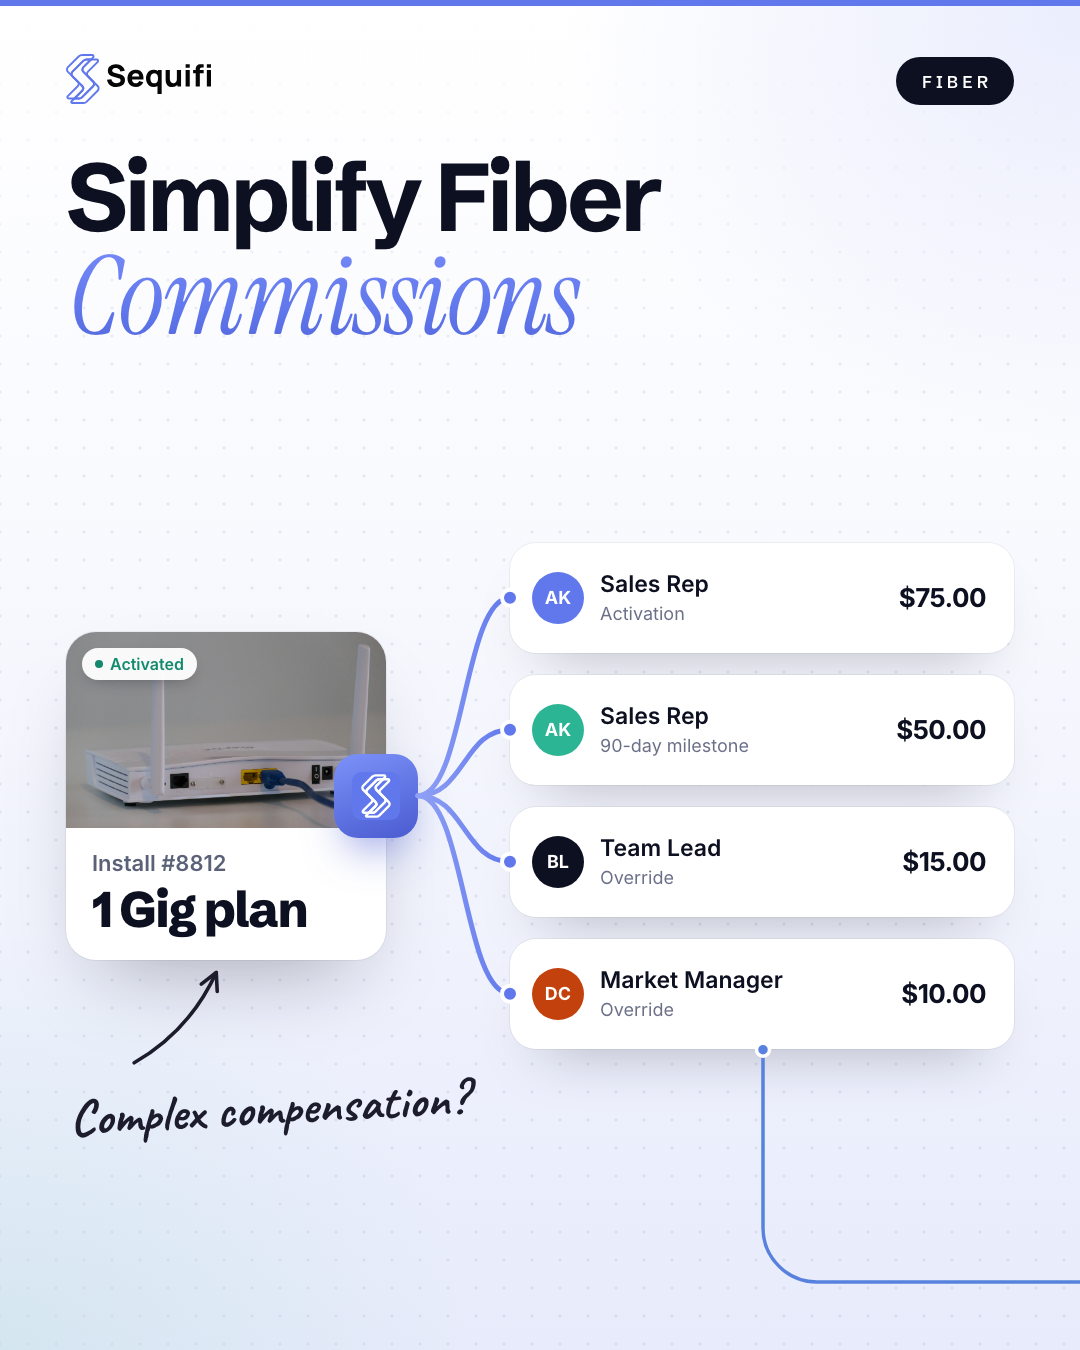
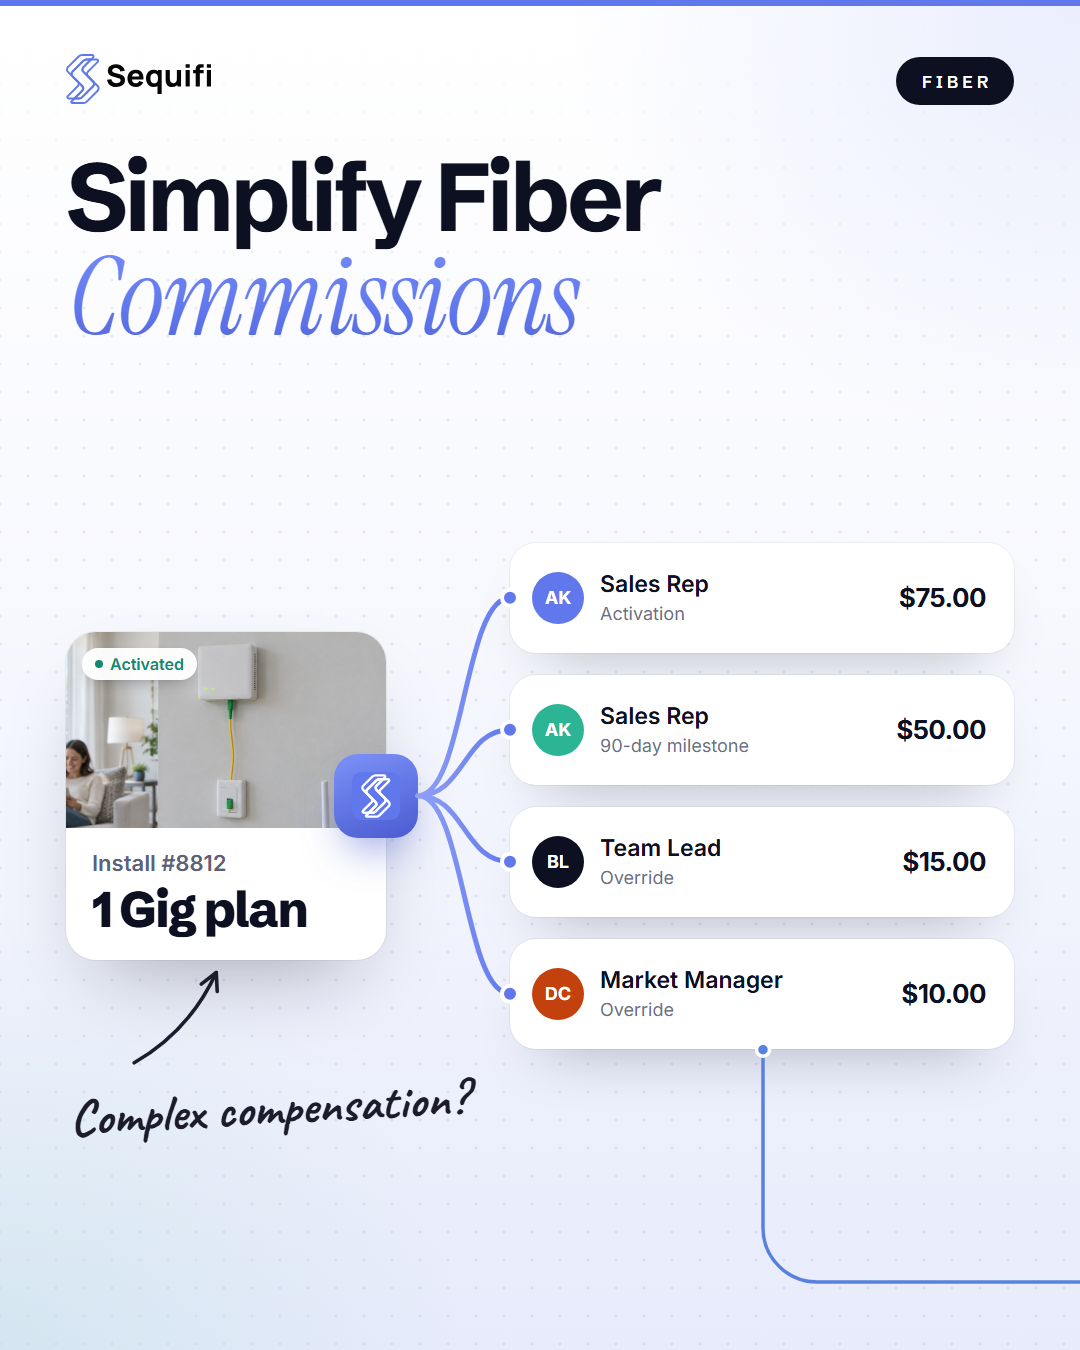
MOFU Fiber: replace Unsplash photos with Figma AI generations
The five MOFU Fiber cards now use photos generated with Figma AI instead of
the Unsplash picks, which read as generic stock. The replaced Unsplash files
move to 02_Brand_Assets/photos/_archive_replaced_unsplash_MOFU/ and CREDITS.md
records the new source. Prompts and picks are kept in data/*.json, and the
five card PNGs are re-exported.

build.mjs now finds Chrome on Windows and Linux too (or $CHROME) and builds
file URLs with pathToFileURL, so the builder runs outside macOS.

diff --git a/03_Design_Source/html/MOFU/Fiber/Card_04.html b/03_Design_Source/html/MOFU/Fiber/Card_04.html
@@ -23,7 +23,7 @@
     </div>
     <div class="nav"><span class="on"><svg viewBox="0 0 24 24" fill="none" stroke="currentColor" stroke-width="2" stroke-linecap="round" stroke-linejoin="round"><rect x="2" y="6" width="20" height="12" rx="2"/><circle cx="12" cy="12" r="2"/><path d="M6 12h.01M18 12h.01"/></svg></span><span><svg viewBox="0 0 24 24" fill="none" stroke="currentColor" stroke-width="2" stroke-linecap="round" stroke-linejoin="round"><path d="m22 7-8.5 8.5-5-5L2 17"/><path d="M16 7h6v6"/></svg></span><span class="plus"><svg viewBox="0 0 24 24" fill="none" stroke="currentColor" stroke-width="2.6" stroke-linecap="round" stroke-linejoin="round"><path d="M12 5v14M5 12h14"/></svg></span><span><svg viewBox="0 0 24 24" fill="none" stroke="currentColor" stroke-width="2" stroke-linecap="round" stroke-linejoin="round"><path d="M15 2H6a2 2 0 0 0-2 2v16a2 2 0 0 0 2 2h12a2 2 0 0 0 2-2V7Z"/><path d="M14 2v4a2 2 0 0 0 2 2h4"/><path d="M16 13H8M16 17H8M10 9H8"/></svg></span><span><svg viewBox="0 0 24 24" fill="none" stroke="currentColor" stroke-width="2" stroke-linecap="round" stroke-linejoin="round"><path d="M16 21v-2a4 4 0 0 0-4-4H6a4 4 0 0 0-4 4v2"/><circle cx="9" cy="7" r="4"/><path d="M22 21v-2a4 4 0 0 0-3-3.87"/><path d="M16 3.13a4 4 0 0 1 0 7.75"/></svg></span></div>
   </div></div>
-    <div class="inset" style="left:var(--m);top:540px;width:450px;height:360px;transform:rotate(-3deg)"><img class="" src="../../../../02_Brand_Assets/photos/Fiber/Fiber_M4.jpg" style="object-position:50% 30%;width:100%;height:100%;object-fit:cover" alt=""></div>
+    <div class="inset" style="left:var(--m);top:540px;width:450px;height:360px;transform:rotate(-3deg)"><img class="" src="../../../../02_Brand_Assets/photos/Fiber/Fiber_M4_generated.jpg" style="object-position:50% 50%;width:100%;height:100%;object-fit:cover" alt=""></div>
     <div class="note ink" style="left:76px;top:968px">Better payout visibility</div>
     <div class="rail" data-i="3" data-mode="through" data-target="#phoneB"></div></div>
 <script src="../../../styles/draw.js"></script>

diff --git a/03_Design_Source/styles/cards.css b/03_Design_Source/styles/cards.css
@@ -471,9 +471,9 @@ body { width: var(--W); height: var(--H); overflow: hidden; -webkit-font-smoothi
   linear-gradient(180deg, rgba(5,8,23,.5) 0%, rgba(5,8,23,.15) 30%, rgba(5,8,23,0) 50%, rgba(5,8,23,0) 72%, rgba(5,8,23,.55) 88%, rgba(5,8,23,.85) 100%); }
 .arcs { position: absolute; inset: 0; z-index: 5; overflow: visible; }
 .arcs path { fill: none; filter: drop-shadow(0 0 6px rgba(255,214,150,.6)); }
-.node { position: absolute; z-index: 7; width: 22px; height: 22px; margin: -11px 0 0 -11px; border-radius: 50%; border: 4px solid #fff; box-shadow: 0 0 0 8px rgba(255,255,255,.2), 0 6px 14px rgba(5,8,23,.4); }
-.node.sun { width: 34px; height: 34px; margin: -17px 0 0 -17px; background: rgba(255,255,255,.25); border-color: rgba(255,255,255,.9); box-shadow: 0 0 0 10px rgba(255,236,190,.25), 0 0 40px rgba(255,214,150,.9); }
-.node.start { background: var(--accent); } .node.paid { background: var(--green); } .node.due { background: #F2A93B; }
+i.node { position: absolute; z-index: 7; width: 22px; height: 22px; margin: -11px 0 0 -11px; border-radius: 50%; border: 4px solid #fff; box-shadow: 0 0 0 8px rgba(255,255,255,.2), 0 6px 14px rgba(5,8,23,.4); }
+i.node.sun { width: 34px; height: 34px; margin: -17px 0 0 -17px; background: rgba(255,255,255,.25); border-color: rgba(255,255,255,.9); box-shadow: 0 0 0 10px rgba(255,236,190,.25), 0 0 40px rgba(255,214,150,.9); }
+i.node.start { background: var(--accent); } i.node.paid { background: var(--green); } i.node.due { background: #F2A93B; }
 .ms { position: absolute; z-index: 12; padding: 14px 18px; border-radius: 18px; background: #fff; box-shadow: 0 30px 60px -24px rgba(3,5,15,.7); white-space: nowrap; }
 .ms .k { display: block; font: 500 16px/1.2 var(--f-ui); color: #6B7088; }
 .ms b { display: block; margin-top: 5px; font: 700 26px/1 var(--f-ui); letter-spacing: -0.02em; color: var(--ink); }

diff --git a/03_Design_Source/html/MOFU/Fiber/Card_01.html b/03_Design_Source/html/MOFU/Fiber/Card_01.html
@@ -15,7 +15,7 @@
   </div>
       <div class="stage">
   <div class="fan" data-fan style="position:absolute;inset:0">
-    <div class="deal pic"><i class="anchor" id="dealB" style="left:50%;bottom:-2px"></i><div class="dp"><img class="" src="../../../../02_Brand_Assets/photos/Fiber/Fiber_M1.jpg" style="object-position:50% 55%;" alt=""><span class="chip ok">Activated</span></div>
+    <div class="deal pic"><i class="anchor" id="dealB" style="left:50%;bottom:-2px"></i><div class="dp"><img class="" src="../../../../02_Brand_Assets/photos/Fiber/Fiber_M1_generated.jpg" style="object-position:50% 18%;transform:scale(1.6);transform-origin:50% 18%;" alt=""><span class="chip ok">Activated</span></div>
       <div class="db"><div class="t1">Install #8812</div><div class="t2">1 Gig plan</div></div></div>
     <div class="node"><img src="../../../../02_Brand_Assets/logo/sequifi-app-icon.svg" alt=""></div>
     <div class="payees ui"><i class="anchor" id="railT" style="left:50%;bottom:-2px"></i>

diff --git a/03_Design_Source/html/MOFU/Fiber/Card_02.html b/03_Design_Source/html/MOFU/Fiber/Card_02.html
@@ -5,7 +5,7 @@
 <style>.h{text-wrap:balance}</style>
 </head><body>
 <div class="card light photo-top L-m2_flow">
-    <div class="band" style="height:580px"><img class="ph" src="../../../../02_Brand_Assets/photos/Fiber/Fiber_M2.jpg" style="object-position:50% 40%;" alt=""></div><div class="topbar"></div><img class="logo" src="../../../../02_Brand_Assets/logo/sequifi-logo-white-text.svg" alt="Sequifi"><div class="pill"><span>FIBER</span></div>
+    <div class="band" style="height:580px"><img class="ph" src="../../../../02_Brand_Assets/photos/Fiber/Fiber_M2_generated.jpg" style="object-position:50% 0%;" alt=""></div><div class="topbar"></div><img class="logo" src="../../../../02_Brand_Assets/logo/sequifi-logo-white-text.svg" alt="Sequifi"><div class="pill"><span>FIBER</span></div>
     <div class="col" style="top:566px;bottom:96px">
       
   <div class="hl" style="">

diff --git a/03_Design_Source/html/MOFU/Fiber/Card_03.html b/03_Design_Source/html/MOFU/Fiber/Card_03.html
@@ -22,7 +22,7 @@
     </div>
   </div>
     
-  <div class="pf" style="right:50px;top:384px"><div class="face"><img class="" src="../../../../02_Brand_Assets/photos/Fiber/Fiber_M3.jpg" style="object-position:50% 12%;transform:scale(1.45);transform-origin:50% 12%;" alt=""></div>
+  <div class="pf" style="right:50px;top:384px"><div class="face"><img class="" src="../../../../02_Brand_Assets/photos/Fiber/Fiber_M3_generated.jpg" style="object-position:50% 8%;transform:scale(1.6);transform-origin:50% 8%;" alt=""></div>
     <div class="m"><b>B. Lopez</b><span>Sales Rep · 32 installs</span></div>
     <div class="r"><div class="v">$4,270</div><span class="chip ok">Approved</span></div></div>
     <div class="note ink" style="left:200px;top:1146px" data-arrow="#dmoney" data-from="right" data-to="bottom" data-gap="14" data-bend="0.26">Clearer commission details</div>

diff --git a/03_Design_Source/html/MOFU/Fiber/Card_05.html b/03_Design_Source/html/MOFU/Fiber/Card_05.html
@@ -5,7 +5,7 @@
 <style>.h{text-wrap:balance}</style>
 </head><body>
 <div class="card light photo-top L-m5_cta">
-    <div class="band" style="height:1010px"><img class="ph" src="../../../../02_Brand_Assets/photos/Fiber/Fiber_M5.jpg" style="object-position:50% 50%;" alt=""></div><div class="topbar"></div><img class="logo" src="../../../../02_Brand_Assets/logo/sequifi-logo-white-text.svg" alt="Sequifi"><div class="pill"><span>FIBER</span></div>
+    <div class="band" style="height:1010px"><img class="ph" src="../../../../02_Brand_Assets/photos/Fiber/Fiber_M5_generated.jpg" style="object-position:50% 0%;" alt=""></div><div class="topbar"></div><img class="logo" src="../../../../02_Brand_Assets/logo/sequifi-logo-white-text.svg" alt="Sequifi"><div class="pill"><span>FIBER</span></div>
     
   <div class="hl" style="bottom:270px">
     

diff --git a/02_Brand_Assets/photos/CREDITS.md b/02_Brand_Assets/photos/CREDITS.md
@@ -33,11 +33,11 @@ Photos are from [Unsplash](https://unsplash.com/license) (free for commercial us
 | Fiber | T3 | Generated with Figma AI (gpt-image-2.5-sunburst) | 2026-10-16 |
 | Fiber | T4 | Generated with Figma AI (gpt-image-2.5-sunburst) | 2026-10-16 |
 | Fiber | T5 | Generated with Figma AI (gpt-image-2.5-sunburst) | 2026-10-16 |
-| Fiber | M2 | [Mario Spencer](https://unsplash.com/@spencphoto) | [UyqxlMS8X84](https://unsplash.com/photos/linemen-working-on-a-utility-pole-with-bucket-truck-UyqxlMS8X84) |
-| Fiber | M4 | [Sammyayot254](https://unsplash.com/@superadmins) | [x2uFyKJhDGE](https://unsplash.com/photos/man-in-blue-button-up-shirt-standing-near-white-wall-x2uFyKJhDGE) |
-| Fiber | M5 | [John Adams](https://unsplash.com/@johnladams) | [1xIN4FMR78A](https://unsplash.com/photos/a-large-display-of-blue-lights-in-a-dark-room-1xIN4FMR78A) |
-| Fiber | M1 | [Compare Fibre](https://unsplash.com/@comparefibre) | [hXVVNB6Qctg](https://unsplash.com/photos/white-router-on-white-table-hXVVNB6Qctg) |
-| Fiber | M3 | [Joseph Okon](https://unsplash.com/@joecreativestudio) | [hSD_Igxu4r0](https://unsplash.com/photos/a-man-wearing-a-hard-hat-and-safety-gear-hSD_Igxu4r0) |
+| Fiber | M2 | Generated with Figma AI (gpt-image-2.5-sunburst) | 2026-10-22 |
+| Fiber | M4 | Generated with Figma AI (gpt-image-2.5-sunburst) | 2026-10-22 |
+| Fiber | M5 | Generated with Figma AI (gpt-image-2.5-sunburst) | 2026-10-22 |
+| Fiber | M1 | Generated with Figma AI (gpt-image-2.5-sunburst) | 2026-10-22 |
+| Fiber | M3 | Generated with Figma AI (gpt-image-2.5-sunburst) | 2026-10-22 |
 | Fiber | B1 | Generated with Figma AI (gpt-image-2.5-sunburst) | 2026-10-16 |
 | Fiber | B2 | Generated with Figma AI (gpt-image-2.5-sunburst) | 2026-10-16 |
 | Solar | T1 | Generated with Figma AI (gpt-image-2.5-sunburst) | 2026-10-16 |
